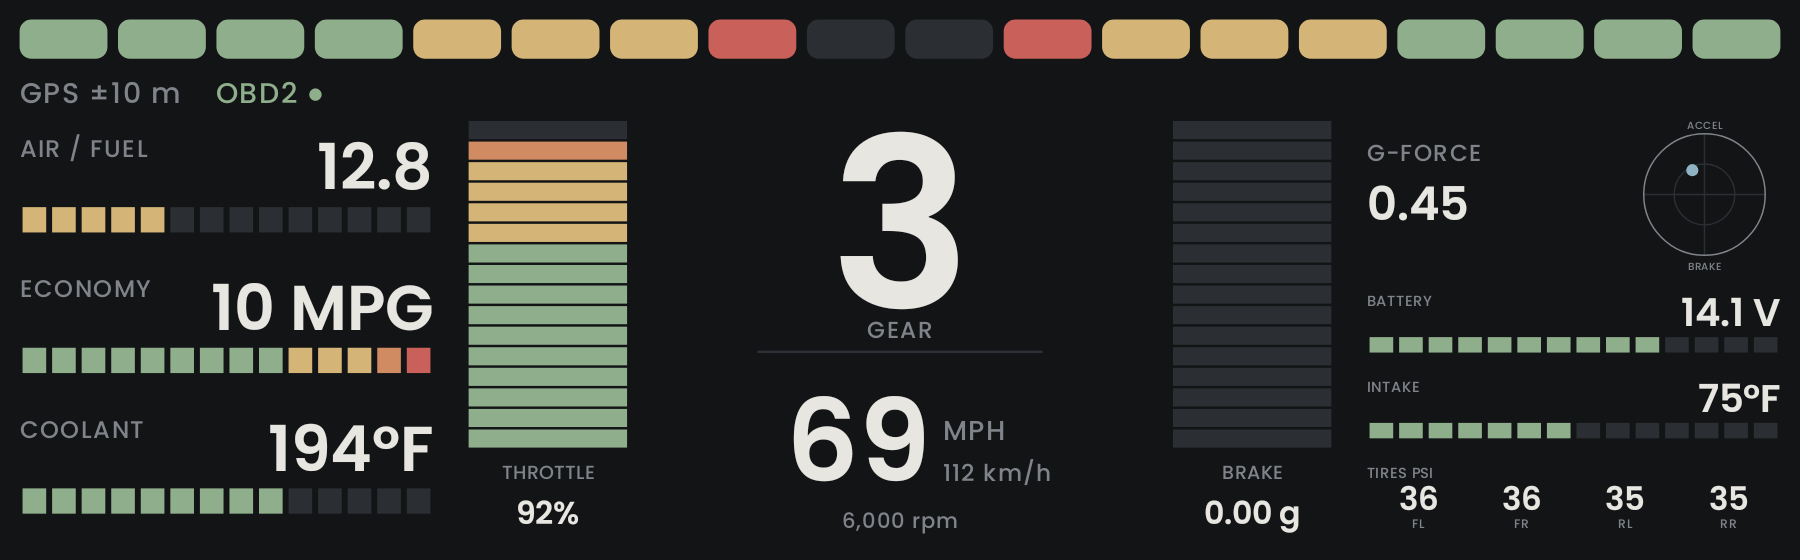
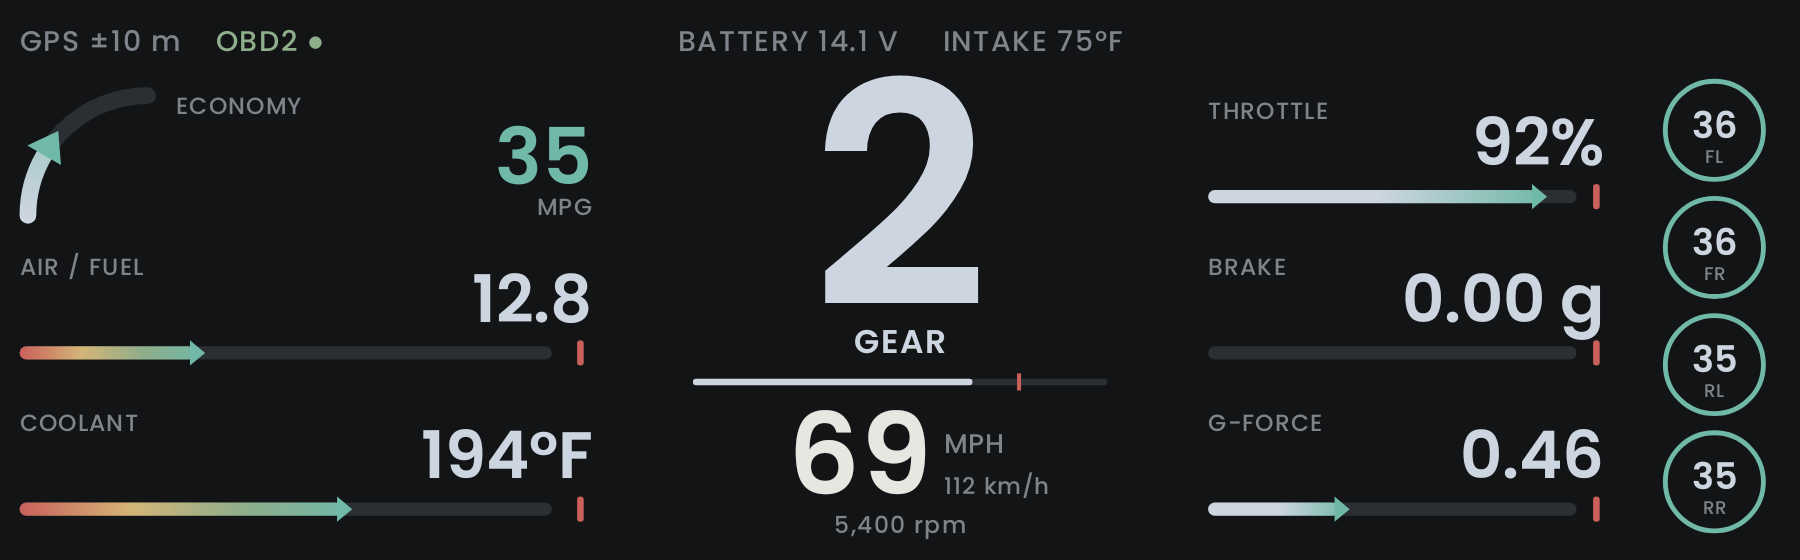
0.9.1: Sport screen laid out like the cluster in the reference photo (#13)
- Gear huge in the middle with GEAR under it and a thin rev line (red at the
  redline, flashing gear at the shift point).
- Economy with a small arc at top left, air/fuel and coolant below it, each
  with a bar that ends in an arrowhead and a red tick.
- Throttle, brake and g-force down the right the same way.
- Tire pressures as a column of rings; battery and intake in the top line.

Claude-Session: https://claude.ai/code/session_01N4dMX8PfpVf6pnmBC8x2KL

diff --git a/app/src/main/java/io/github/byjoelsamuel/drivesanity/ClusterPainter.kt b/app/src/main/java/io/github/byjoelsamuel/drivesanity/ClusterPainter.kt
@@ -2,8 +2,13 @@ package io.github.byjoelsamuel.drivesanity
 
 import android.content.Context
 import android.graphics.Canvas
+import android.graphics.Color
+import android.graphics.LinearGradient
 import android.graphics.Paint
+import android.graphics.Path
 import android.graphics.RectF
+import android.graphics.Shader
+import android.graphics.SweepGradient
 import android.os.SystemClock
 import io.github.byjoelsamuel.drivesanity.map.MapPainter
 import io.github.byjoelsamuel.drivesanity.nav.Nav
@@ -180,102 +185,211 @@ class ClusterPainter(context: Context) {
     }
 
     // ---------------------------------------------------------------------------------------
-    // Sport: a performance cluster, with shift lights, pedal bars and the air/fuel ratio
+    // Sport: laid out like a supercar's digital cluster. Economy with a small arc, then the air/fuel
+    // ratio and coolant on the left; a huge gear in the middle with a thin rev line under it; throttle,
+    // brake and g-force on the right; and the tires as a column of rings.
     // ---------------------------------------------------------------------------------------
+
+    private val pale = Color.rgb(205, 213, 224)
+    private val teal = Color.rgb(112, 184, 168)
+    private val path = Path()
 
     fun drawSport(c: Canvas, r: RectF, s: Snapshot, units: Units) {
         background(c, r)
         val pad = r.height() * 0.035f
         val inner = RectF(r.left + pad, r.top + pad, r.right - pad, r.bottom - pad)
         val h = inner.height()
-        shiftLights(c, RectF(inner.left, inner.top, inner.right, inner.top + h * 0.075f), s)
-        status(c, RectF(inner.left, inner.top + h * 0.1f, inner.right, inner.top + h * 0.17f), s)
-        val body = RectF(inner.left, inner.top + h * 0.19f, inner.right, inner.bottom)
+        val top = RectF(inner.left, inner.top, inner.right, inner.top + h * 0.07f)
+        status(c, top, s)
+        // Battery and intake air don't get a row here; they sit in the middle of the top line.
+        label(top.height() * 0.78f, Colors.DIM, Paint.Align.CENTER)
+        val volts = s.volts?.let { "%.1f V".format(it) } ?: "–"
+        c.drawText("BATTERY $volts     INTAKE ${tempText(s.intakeC, units)}", top.centerX(), top.bottom - top.height() * 0.15f, text)
+        val body = RectF(inner.left, inner.top + h * 0.1f, inner.right, inner.bottom)
         val w = body.width()
         fun col(x0: Float, x1: Float) = RectF(body.left + w * x0, body.top, body.left + w * x1, body.bottom)
-        sportLeft(c, col(0f, 0.235f), s, units)
-        pedal(c, col(0.255f, 0.345f), "THROTTLE", s.throttlePct?.let { "${it.roundToInt()}%" } ?: "–", s.throttlePct?.div(100f), ::rampColor)
-        sportCentre(c, col(0.365f, 0.635f), s, units)
-        val brake = s.g?.brake ?: 0f
-        pedal(
-            c, col(0.655f, 0.745f), "BRAKE", if (s.g == null) "–" else "%.2f g".format(brake),
-            if (s.g == null) null else (brake / 0.8f).coerceIn(0f, 1f),
-        ) { f -> Colors.brake(BrakeLevel.of(f * 0.8f)) }
-        rightStack(c, col(0.765f, 1f), s, units)
-    }
-
-    /** Shift lights across the top: they fill in from both edges as the revs climb, then flash red at the shift point. */
-    private fun shiftLights(c: Canvas, b: RectF, s: Snapshot) {
-        val n = 18
-        val gap = b.width() * 0.006f
-        val led = (b.width() - gap * (n - 1)) / n
-        val rpm = s.rpm
-        val progress = if (rpm == null) 0f else ((rpm / Revs.REDLINE - 0.62f) / 0.36f).coerceIn(0f, 1f)
-        val level = Alerts.shiftLevel(rpm, Revs.REDLINE)
-        val flashOn = (Alerts.now() / 90) % 2 == 0L
-        val lit = (progress * (n / 2)).roundToInt()
-        for (i in 0 until n) {
-            val fromEdge = if (i < n / 2) i else n - 1 - i
-            fill.color = when {
-                level == 2 -> if (flashOn) Colors.RED else Colors.GRID
-                fromEdge < lit -> when { fromEdge < 4 -> Colors.GOOD; fromEdge < 7 -> Colors.SAND; else -> Colors.RED }
-                else -> Colors.GRID
-            }
-            val x = b.left + i * (led + gap)
-            c.drawRoundRect(RectF(x, b.top, x + led, b.bottom), b.height() * 0.3f, b.height() * 0.3f, fill)
-        }
+        sportLeft(c, col(0f, 0.325f), s, units)
+        sportCentre(c, col(0.36f, 0.64f), s, units)
+        sportRight(c, col(0.675f, 0.9f), s, units)
+        tireRings(c, col(0.925f, 1f), s, units)
     }
 
     private fun sportLeft(c: Canvas, b: RectF, s: Snapshot, units: Units) {
         val rowH = b.height() / 3f
-        fun row(i: Int) = RectF(b.left, b.top + i * rowH, b.right, b.top + (i + 1) * rowH - rowH * 0.1f)
+        fun row(i: Int) = RectF(b.left, b.top + i * rowH, b.right, b.top + (i + 1) * rowH)
+        // Economy: a small arc and a big teal number.
+        val e = row(0)
+        val frac = s.fuelLper100?.div(20f) ?: s.fuelLph?.div(6f)
+        val shown = units.economyText(s.fuelLper100, s.fuelLph)
+        val space = shown.indexOf(' ')
+        val num = if (space > 0) shown.substring(0, space) else shown
+        val unit = if (space > 0) shown.substring(space + 1) else ""
+        arc(c, RectF(e.left, e.top + rowH * 0.1f, e.left + rowH * 0.82f, e.top + rowH * 0.1f + rowH * 0.82f), frac)
+        val tx = e.left + rowH * 1.0f
+        label(rowH * 0.15f)
+        c.drawText("ECONOMY", tx, e.top + rowH * 0.27f, text)
+        number(rowH * 0.5f, if (frac == null) Colors.DIM else teal, Paint.Align.RIGHT)
+        c.drawText(num, e.right, e.top + rowH * 0.72f, text)
+        label(rowH * 0.15f, Colors.DIM, Paint.Align.RIGHT)
+        c.drawText(unit.uppercase(), e.right, e.top + rowH * 0.92f, text)
+
         val afr = if (s.petrol) s.lambda?.let { it * 14.7f } else null
-        barRow(c, row(0), "AIR / FUEL", afr?.let { "%.1f".format(it) } ?: "–", afr?.let { (it - 10f) / 8f }, 14, { f -> if (f < 0.4f) Colors.SAND else Colors.GOOD })
-        economyRow(c, row(1), s, units)
+        statRow(c, row(1), "AIR / FUEL", afr?.let { "%.1f".format(it) } ?: "–", pale, afr?.let { (it - 10f) / 8f }, warm = true)
         val cool = s.coolantC
-        val coolColor = when {
-            cool == null -> Colors.DIM
-            cool > 105f -> Colors.RED
-            cool < 60f -> Colors.ACCENT
-            else -> Colors.GOOD
-        }
-        barRow(c, row(2), "COOLANT", tempText(cool, units), cool?.let { (it - 40f) / 80f }, 14, { coolColor })
+        val coolColor = if (cool != null && cool > 105f) Colors.RED else pale
+        statRow(c, row(2), "COOLANT", tempText(cool, units), coolColor, cool?.let { (it - 40f) / 80f }, warm = true)
     }
 
+    private fun sportRight(c: Canvas, b: RectF, s: Snapshot, units: Units) {
+        val rowH = b.height() / 3f
+        fun row(i: Int) = RectF(b.left, b.top + i * rowH, b.right, b.top + (i + 1) * rowH)
+        val thr = s.throttlePct
+        statRow(c, row(0), "THROTTLE", thr?.let { "${it.roundToInt()}%" } ?: "–", pale, thr?.div(100f), warm = false)
+        val g = s.g
+        val brake = g?.brake ?: 0f
+        val brakeColor = if (g == null) pale else Colors.brake(BrakeLevel.of(brake)).let { if (BrakeLevel.of(brake) == BrakeLevel.NONE) pale else it }
+        statRow(c, row(1), "BRAKE", if (g == null) "–" else "%.2f g".format(brake), brakeColor, if (g == null) null else (brake / 0.8f).coerceIn(0f, 1f), warm = false)
+        statRow(c, row(2), "G-FORCE", g?.let { "%.2f".format(it.total) } ?: "–", pale, g?.let { (it.total / 1.2f).coerceIn(0f, 1f) }, warm = false)
+    }
+
+    /** The gear, huge, with "GEAR" under it, a thin line that is the rev counter, and the speed. */
     private fun sportCentre(c: Canvas, b: RectF, s: Snapshot, units: Units) {
         val h = b.height()
         val cx = b.centerX()
-        number(
-            h * (if (s.gear == null) 0.3f else 0.56f),
-            when { s.gearless -> Colors.DIM; s.gear == null -> Colors.GRID; else -> Colors.FG },
-            Paint.Align.CENTER,
-        )
-        c.drawText(s.gearText, cx, b.top + h * 0.45f, text)
-        label(h * 0.055f, Colors.DIM, Paint.Align.CENTER)
-        c.drawText(if (s.gearless) "NO FIXED GEARS" else "GEAR", cx, b.top + h * 0.52f, text)
+        val level = Alerts.shiftLevel(s.rpm, Revs.REDLINE)
+        val flashOn = (Alerts.now() / 110) % 2 == 0L
+        val gearColor = when {
+            s.gearless -> Colors.DIM
+            s.gear == null -> Colors.GRID
+            level == 2 -> if (flashOn) Colors.RED else Colors.GRID
+            level == 1 -> Colors.SAND
+            else -> pale
+        }
+        number(h * (if (s.gear == null) 0.3f else 0.66f), gearColor, Paint.Align.CENTER)
+        c.drawText(s.gearText, cx, b.top + h * 0.5f, text)
+        label(h * 0.07f, pale, Paint.Align.CENTER)
+        text.typeface = numbers
+        c.drawText(if (s.gearless) "NO FIXED GEARS" else "GEAR", cx, b.top + h * 0.6f, text)
+
+        // The rev line: fills left to right, sage, then sand, then red at the redline.
+        val line = RectF(b.left + b.width() * 0.08f, b.top + h * 0.655f, b.right - b.width() * 0.08f, b.top + h * 0.655f + max(4f, h * 0.014f))
         fill.color = Colors.GRID
-        c.drawRect(cx - b.width() * 0.3f, b.top + h * 0.55f, cx + b.width() * 0.3f, b.top + h * 0.55f + max(2f, h * 0.006f), fill)
-        speedGroup(c, b, s, units, size = h * 0.27f, baseline = b.top + h * 0.86f, centred = true)
+        c.drawRoundRect(line, line.height() / 2, line.height() / 2, fill)
+        val rpm = s.rpm
+        if (rpm != null) {
+            val f = (rpm / Revs.MAX).coerceIn(0f, 1f)
+            fill.color = Colors.rpm(rpm).let { if (level == 0) pale else it }
+            c.drawRoundRect(RectF(line.left, line.top, line.left + line.width() * f, line.bottom), line.height() / 2, line.height() / 2, fill)
+            // Where the redline is, so you can see how far off it is.
+            fill.color = Colors.RED
+            val rx = line.left + line.width() * (Revs.REDLINE / Revs.MAX)
+            c.drawRect(rx - 2f, line.top - line.height() * 0.8f, rx + 2f, line.bottom + line.height() * 0.8f, fill)
+        }
+
+        speedGroup(c, b, s, units, size = h * 0.24f, baseline = b.top + h * 0.9f, centred = true)
         label(h * 0.05f, Colors.DIM, Paint.Align.CENTER)
-        c.drawText(s.rpm?.let { "%,d rpm".format((it / 50f).roundToInt() * 50) } ?: "no OBD2", cx, b.top + h * 0.97f, text)
+        c.drawText(rpm?.let { "%,d rpm".format((it / 50f).roundToInt() * 50) } ?: "no OBD2", cx, b.top + h * 0.985f, text)
     }
 
-    /** A pedal as a tall bar that fills from the bottom, with its name and value under it. */
-    private fun pedal(c: Canvas, b: RectF, name: String, value: String, frac: Float?, colorOf: (Float) -> Int) {
+    /**
+     * A small caption, a value in big pale numbers on the right, and a bar under them that ends in an
+     * arrowhead with a short red tick at the far end of the track. [warm] colours the bar from red
+     * through sand to sage; otherwise it runs from pale to teal.
+     */
+    private fun statRow(c: Canvas, b: RectF, name: String, value: String, valueColor: Int, frac: Float?, warm: Boolean) {
         val h = b.height()
-        val area = RectF(b.left, b.top, b.right, b.top + h * 0.78f)
-        val n = 16
-        val seg = area.height() / n
-        val lit = if (frac == null) 0 else (frac.coerceIn(0f, 1f) * n).roundToInt()
-        for (i in 0 until n) { // 0 is the bottom segment
-            val bottom = area.bottom - i * seg
-            fill.color = if (i < lit) colorOf((i + 0.5f) / n) else Colors.GRID
-            c.drawRect(area.left, bottom - seg * 0.88f, area.right, bottom, fill)
+        label(h * 0.15f)
+        c.drawText(name, b.left, b.top + h * 0.3f, text)
+        number(h * 0.42f, if (frac == null) Colors.DIM else valueColor, Paint.Align.RIGHT)
+        c.drawText(value, b.right, b.top + h * 0.6f, text)
+
+        val thick = h * 0.085f
+        val y = b.top + h * 0.8f
+        val track = RectF(b.left, y - thick / 2, b.right - b.width() * 0.07f, y + thick / 2)
+        fill.shader = null
+        fill.color = Colors.GRID
+        c.drawRoundRect(track, thick / 2, thick / 2, fill)
+        // The red tick at the end of the track.
+        fill.color = Colors.RED
+        val tx = b.right - b.width() * 0.02f
+        c.drawRoundRect(RectF(tx - thick * 0.25f, y - thick * 0.95f, tx + thick * 0.25f, y + thick * 0.95f), thick * 0.25f, thick * 0.25f, fill)
+        if (frac == null) return
+        val len = track.width() * frac.coerceIn(0f, 1f)
+        if (len < thick) return
+        val head = thick * 1.9f
+        val bodyEnd = track.left + len - head * 0.4f
+        val colors = if (warm) intArrayOf(Colors.RED, Colors.SAND, Colors.GOOD, teal) else intArrayOf(pale, pale, teal)
+        fill.shader = LinearGradient(track.left, 0f, track.left + len, 0f, colors, null, Shader.TileMode.CLAMP)
+        c.drawRoundRect(RectF(track.left, track.top, bodyEnd, track.bottom), thick / 2, thick / 2, fill)
+        path.reset()
+        path.moveTo(track.left + len, y)
+        path.lineTo(bodyEnd - head * 0.2f, y - head * 0.5f)
+        path.lineTo(bodyEnd - head * 0.2f, y + head * 0.5f)
+        path.close()
+        fill.color = teal
+        fill.shader = null
+        c.drawPath(path, fill)
+    }
+
+    /** A quarter arc, from the left round to the top, that fills as [frac] goes up. */
+    private fun arc(c: Canvas, box: RectF, frac: Float?) {
+        val thick = box.height() * 0.13f
+        stroke.strokeWidth = thick
+        stroke.strokeCap = Paint.Cap.ROUND
+        val oval = RectF(box.left + thick / 2, box.top + thick / 2, box.right * 2 - box.left - thick / 2, box.bottom * 2 - box.top - thick / 2)
+        stroke.shader = null
+        stroke.color = Colors.GRID
+        c.drawArc(oval, 180f, 90f, false, stroke)
+        if (frac != null && frac > 0.02f) {
+            val sweep = 90f * frac.coerceIn(0f, 1f)
+            val cx = oval.centerX()
+            val cy = oval.centerY()
+            stroke.shader = SweepGradient(cx, cy, intArrayOf(pale, pale, teal, teal), floatArrayOf(0f, 0.5f, 0.75f, 1f))
+            c.drawArc(oval, 180f, sweep, false, stroke)
+            stroke.shader = null
+            // The arrowhead at the end of the arc.
+            val rad = oval.width() / 2
+            val a = Math.toRadians((180f + sweep).toDouble())
+            val px = cx + rad * kotlin.math.cos(a).toFloat()
+            val py = cy + rad * kotlin.math.sin(a).toFloat()
+            val tx = -kotlin.math.sin(a).toFloat()
+            val ty = kotlin.math.cos(a).toFloat()
+            val nx = kotlin.math.cos(a).toFloat()
+            val ny = kotlin.math.sin(a).toFloat()
+            val hs = thick * 1.3f
+            path.reset()
+            path.moveTo(px + tx * hs * 1.3f, py + ty * hs * 1.3f)
+            path.lineTo(px + nx * hs * 0.9f, py + ny * hs * 0.9f)
+            path.lineTo(px - nx * hs * 0.9f, py - ny * hs * 0.9f)
+            path.close()
+            fill.color = teal
+            c.drawPath(path, fill)
         }
-        label(h * 0.045f, Colors.DIM, Paint.Align.CENTER)
-        c.drawText(name, b.centerX(), b.top + h * 0.855f, text)
-        number(h * 0.075f, if (frac == null) Colors.DIM else Colors.FG, Paint.Align.CENTER)
-        c.drawText(value, b.centerX(), b.top + h * 0.96f, text)
+        stroke.strokeCap = Paint.Cap.BUTT
+    }
+
+    /** The four tire pressures as a column of rings, like the warning lamps down the side of the cluster. */
+    private fun tireRings(c: Canvas, b: RectF, s: Snapshot, units: Units) {
+        val cell = b.height() / 4f
+        val d = min(b.width(), cell * 0.92f)
+        for (i in 0 until 4) {
+            val psi = s.tires.getOrNull(i)
+            val color = when {
+                psi == null -> Colors.DIM
+                Tpms.level(psi) == 2 -> Colors.RED
+                Tpms.level(psi) == 1 -> Colors.SAND
+                else -> teal
+            }
+            val cx = b.centerX()
+            val cy = b.top + cell * (i + 0.5f)
+            stroke.strokeWidth = max(2f, d * 0.045f)
+            stroke.color = color
+            c.drawCircle(cx, cy, d / 2 - stroke.strokeWidth, stroke)
+            number(d * 0.34f, if (psi == null) Colors.DIM else pale, Paint.Align.CENTER)
+            c.drawText(Tpms.text(psi, units), cx, cy + d * 0.07f, text)
+            label(d * 0.17f, Colors.DIM, Paint.Align.CENTER)
+            c.drawText(Tpms.NAMES[i], cx, cy + d * 0.3f, text)
+        }
     }
 
     /** A caption and a big value on one line, and a row of bar segments under them. */

diff --git a/README.md b/README.md
@@ -25,11 +25,12 @@ half. Speed, gear, RPM, brake and the rest are on the right.
 *This picture was made where the map server can't be reached, so its streets are a stand-in.
 In the app the map is the real OpenStreetMap.*
 
-**Sport**: the gear is the biggest thing on the screen. A row of shift lights runs along the top
-and fills from both edges toward the redline, then flashes red. Throttle and brake are tall
-pedal bars on either side of the gear, with the air/fuel ratio, fuel economy and coolant on the
-left and g-force, battery, intake air and tire pressures on the right. It's the top-row button
-**SPORT** in the car, and **Exit Sport** takes you back.
+**Sport**: laid out like a supercar's digital cluster. The gear is the biggest thing on the screen,
+with a thin rev line under it that turns red at the redline. Fuel economy sits top left with a
+small arc, then air/fuel ratio and coolant under it, each with a bar that ends in an arrowhead.
+Throttle, brake and g-force are on the right the same way, and the four tire pressures run down
+the edge in rings. Battery and intake air are in the line along the top. It's the top-row
+button **SPORT** in the car, and **Exit Sport** takes you back.
 
 ![The Sport screen, with sample data](docs/sport-screen.png)
 
@@ -174,9 +175,9 @@ resetting the trip resets it.
 
 ## Shift light and alerts
 
-- **Shift light:** 18 lights along the top of the Sport screen, and a thin strip along the top
-  of the other screens. They start filling at 92% of the car's redline and flash red at 98.5%.
-  The redline is set per car in Setup.
+- **Shift light:** on the Sport screen the rev line under the gear turns sand at 92% of the
+  redline, and at 98.5% the line and the gear flash red. The other screens get a thin strip
+  along the top. The redline is set per car in Setup.
 - **Alerts:** a banner appears over the screen for a hot engine (above 108 °C / 226 °F), low
   battery voltage (under 11.8 V, or under 12.5 V with the engine running), a flat tire (under
   27 psi), low fuel when the car reports it, and going more than 5 mph (8 km/h) over the posted
